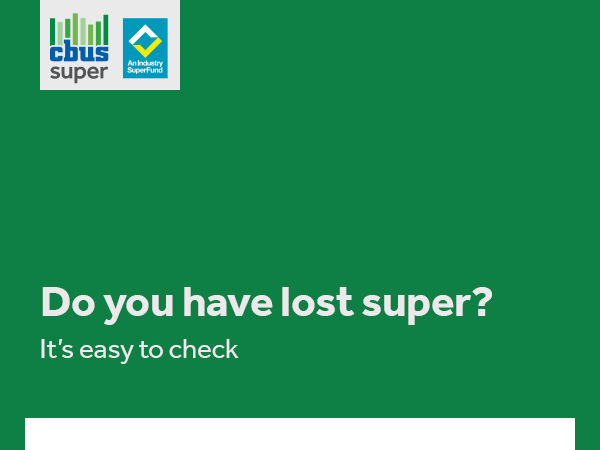
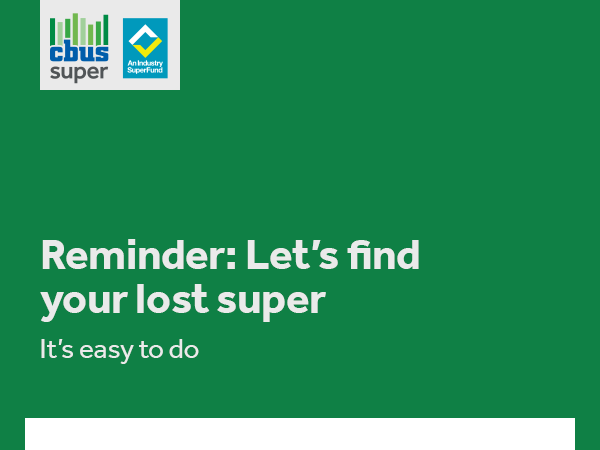
update to match Media Super

Changed region(s): [[0.06, 0.5289, 0.84, 0.7156], [0.3, 0.7467, 0.39, 0.8089]]

diff --git a/emails/2022/tec/supermatch-reminder/index.html b/emails/2022/tec/supermatch-reminder/index.html
@@ -99,23 +99,18 @@ a {text-decoration: none;}
               </p>
           </div>
 
-          <!-- Heading (size-30) -->
-          <div style="Margin-left: 40px;Margin-right: 40px;Margin-bottom: 14px;">
-            <div style="mso-line-height-rule: exactly;mso-text-raise: 11px;vertical-align: middle;">
-              <p class="size-30" style="Margin-top: 0;Margin-bottom: 10px;font-family:'Hind',Tahoma,Arial,sans-serif;font-style: normal;font-weight: normal;font-size: 30px;line-height: 38px;">
-                <strong>Don’t pay double the fees</strong>
-              </p>
-            </div>
-          </div>  
+ 
         <!-- Text -->
         <div style="Margin-left: 40px;Margin-right: 40px;Margin-bottom: 24px;">
           <div style="mso-line-height-rule: exactly;mso-text-raise: 11px;vertical-align: middle;">
-          <p class="size-22" style="Margin-top: 0;Margin-bottom: 0;">
-
-            Hi {{profile.person.name.firstName}}, if you’ve got lost super out there, you may be paying fees on each of those super accounts. Paying fees on multiple accounts will be eating into your super savings, impacting your retirement outcome.          </p>
+          <p class="size-22" style="Margin-top: 0;Margin-bottom: 12px;">
+            Hi {{profile.person.name.firstName}}, you’ve recently asked us to find your lost super for you. Before we can find it for you, we need some additional information to verify your identity. Don’t worry, this is just to make sure your account is as secure as possible.
+          </p>
+          <p class="size-22" style="Margin-top: 0;Margin-bottom: 8px;font-weight: bold;">
+            Simply log in to the member portal and make sure you’ve completed all the steps in the Checklist so we have all the info we need.
+          </p>
           </div>
         </div>
-
 
           <!-- inner spacer -->
           <div style="Margin-left: 10px;Margin-right: 10px;Margin-bottom: 20px;">
@@ -162,7 +157,7 @@ a {text-decoration: none;}
           <td style="color: #454545;font-family: Hind,Calibri,Arial,sans-serif;font-size: 18px;line-height: 24px;padding-left: 8px;">
             <p class="size-22" style="Margin-top: 0px;Margin-bottom: 0;">
               Log in to the 
-              <a class="hover" target="_blank" style="color: #454545; font-weight: bold;" href="https://www.cbussuper.com.au/portals/super-account/consolidate-my-super.super">member login</a>.
+              <a class="hover" target="_blank" style="color: #454545; font-weight: bold;" href="https://www.cbussuper.com.au/portals/super-account/consolidate-my-super.super?utm_source=ajo&utm_medium=edm&utm_campaign=onboard&utm_content=mplink-edm1-tfn-yes">member login</a>.
             </p>
           </td>
           <td>
@@ -242,7 +237,7 @@ a {text-decoration: none;}
                   <table cellpadding="0" cellspacing="0" align="left">
                       <tbody><tr>
                           <td style="width: 206px;height: 55px;background: #0F8045;border-radius: 4px;font-family: Hind,Calibri,Arial,sans-serif; font-size: 22px;text-align:center;">
-                            <a target="_blank" href="https://www.cbussuper.com.au/portals/super-account/consolidate-my-super.super" style="text-decoration: none; color: #fff; display: inline-block; border-top: 10px solid #0F8045; border-bottom: 10px solid #0F8045; border-right: 5px solid #0F8045;border-left: 5px solid #0F8045;">
+                            <a target="_blank" href="https://www.cbussuper.com.au/portals/super-account/consolidate-my-super.superr?utm_source=ajo&utm_medium=edm&utm_campaign=onboard&utm_content=getstarted-edm1-tfn-yes" style="text-decoration: none; color: #fff; display: inline-block; border-top: 10px solid #0F8045; border-bottom: 10px solid #0F8045; border-right: 5px solid #0F8045;border-left: 5px solid #0F8045;">
                               <strong style="font-family: Hind,Calibri,Arial,sans-serif;">Get started</strong>
                             </a>
                           </td>
@@ -445,33 +440,33 @@ a {text-decoration: none;}
       </div>
 
      <!-- Text -->
-     <div style="Margin-left: 5px;Margin-right: 5px;Margin-top: 5px;Margin-bottom: 32px;">
-      <div style="mso-line-height-rule: exactly;mso-text-raise: 11px;vertical-align: middle;">
-        <p style="Margin-top: 0;Margin-bottom: 0;font-size: 11px;line-height: 19px;">
-          The rating is issued by SuperRatings Pty Ltd ABN 95 100 192 283 AFSL 311880 (SuperRatings). Ratings are general advice only and have been prepared without taking account of your objectives, financial situation or needs. Consider your personal circumstances, read the product disclosure statement and seek independent financial advice before investing. The rating is not a recommendation to purchase, sell or hold any product. Past performance information is not indicative of future performance. Ratings are subject to change without notice and SuperRatings assumes no obligation to update. SuperRatings uses objective criteria and receives a fee for publishing awards. Visit superratings.com.au for ratings information and to access the full report. © 2022 SuperRatings. All rights reserved.
-        </p>
-        <p style="Margin-top: 15px;Margin-bottom: 0;font-size: 11px;line-height: 19px;">
-          ©Zenith CW Pty Ltd ABN 20639121403 (Chant West), AR of Zenith Investment Partners Pty Ltd ABN 27103132672, AFSL 226872/ AFS Rep No. 1280401. Criteria used by Chant West to judge its awards is subjective and has been determined based on data supplied by third parties. While such information is believed to be accurate, we do not accept responsibility for inaccuracies in such data. We do not make any representation or give any guarantee or assurance as to the performance or success of any financial product based on the subjective ratings provided. Past performance is not a reliable indicator of future performance. The Chant West awards do not constitute financial product advice, however, to extent the awards are considered to be advice, it is General Advice only and does not take into account your objectives, financial situation or needs, including target markets of financial products, where applicable. You should consider the suitability of any advice against your personal circumstances. Awards may not be reproduced, modified or distributed. Except for any liability which cannot be excluded, we do not accept any liability whether direct or indirect, arising from use of the awards. Awards displayed for previous years are for historical purposes only. Full details regarding the awards and our FSG are available at <a class="hover" target="_blank" style="color: #454545; font-weight: bold;" href="https://www.chantwest.com.au">www.chantwest.com.au</a>.
-        </p>
-        <p style="Margin-top: 15px;Margin-bottom: 0;font-size: 11px;line-height: 19px;">
-          The Canstar 2021 Outstanding Value Account Based Pension Award was received in September 2021 for the Cbus Super Income Stream product.
-        </p>
-        <p style="Margin-top: 15px;Margin-bottom: 0;font-size: 11px;line-height: 19px;">
-          Cbus Trustee: United Super Pty Ltd ABN 46 006 261 623 AFSL 233792 Cbus ABN 75 493 363 262.
-        </p>
-        <p style="Margin-top: 5px;Margin-bottom: 0;font-size: 11px;line-height: 19px;">
-          Insurance is issued under a group policy with our insurer, TAL Life Limited ABN 70 050 109 450, AFSL 237848 
-        </p>
-        <p style="Margin-top: 5px;Margin-bottom: 0;font-size: 11px;line-height: 19px;">
-          This email (including any attachments) contains information which is confidential and may be subject to legal privilege. If you are not the intended recipient you must not use, distribute or copy this email. If you have received this email in error, please notify the sender immediately and delete this email. Any views expressed in this email are not necessarily the views of Cbus.
-        </p>
-        <p style="Margin-top: 5px;Margin-bottom: 0;font-size: 11px;line-height: 19px;">
-          This information is about Cbus. It doesn’t take into account your specific needs, so you should look at your own financial position, objectives and requirements before making any financial decisions. Read the relevant <a class="hover" href="https://www.cbussuper.com.au/tools-resources/forms-and-publications" style="color: #666666; font-weight: bold;" target="_blank">Cbus Product Disclosure Statement</a> and <a class="hover" href="https://www.cbussuper.com.au/target-market-determinations" style="color: #666666; font-weight: bold;" target="_blank">Target Market Determination</a> to decide whether Cbus is right for you. Contact <span style="color: #666666; font-weight: bold">1300 361 784</span> or visit <a class="hover" href="https://www.cbussuper.com.au" style="color: #666666;font-size: 11px;font-weight: bold;line-height: 19px;" target="_blank">cbussuper.com.au</a> for a copy.
-        </p>
+      <div style="Margin-left: 5px;Margin-right: 5px;Margin-top: 5px;Margin-bottom: 32px;">
+        <div style="mso-line-height-rule: exactly;mso-text-raise: 11px;vertical-align: middle;">
+          <p style="Margin-top: 0;Margin-bottom: 0;font-size: 11px;line-height: 19px;">
+            The rating is issued by SuperRatings Pty Ltd ABN 95 100 192 283 AFSL 311880 (SuperRatings). Ratings are general advice only and have been prepared without taking account of your objectives, financial situation or needs. Consider your personal circumstances, read the product disclosure statement and seek independent financial advice before investing. The rating is not a recommendation to purchase, sell or hold any product. Past performance information is not indicative of future performance. Ratings are subject to change without notice and SuperRatings assumes no obligation to update. SuperRatings uses objective criteria and receives a fee for publishing awards. Visit superratings.com.au for ratings information and to access the full report. © 2022 SuperRatings. All rights reserved.
+          </p>
+          <p style="Margin-top: 15px;Margin-bottom: 0;font-size: 11px;line-height: 19px;">
+            ©Zenith CW Pty Ltd ABN 20639121403 (Chant West), AR of Zenith Investment Partners Pty Ltd ABN 27103132672, AFSL 226872/ AFS Rep No. 1280401. Criteria used by Chant West to judge its awards is subjective and has been determined based on data supplied by third parties. While such information is believed to be accurate, we do not accept responsibility for inaccuracies in such data. We do not make any representation or give any guarantee or assurance as to the performance or success of any financial product based on the subjective ratings provided. Past performance is not a reliable indicator of future performance. The Chant West awards do not constitute financial product advice, however, to extent the awards are considered to be advice, it is General Advice only and does not take into account your objectives, financial situation or needs, including target markets of financial products, where applicable. You should consider the suitability of any advice against your personal circumstances. Awards may not be reproduced, modified or distributed. Except for any liability which cannot be excluded, we do not accept any liability whether direct or indirect, arising from use of the awards. Awards displayed for previous years are for historical purposes only. Full details regarding the awards and our FSG are available at <a class="hover" target="_blank" style="color: #454545; font-weight: bold;" href="https://www.chantwest.com.au">www.chantwest.com.au</a>.
+          </p>
+          <p style="Margin-top: 15px;Margin-bottom: 0;font-size: 11px;line-height: 19px;">
+            The Canstar 2021 Outstanding Value Account Based Pension Award was received in September 2021 for the Cbus Super Income Stream product.
+          </p>
+          <p style="Margin-top: 15px;Margin-bottom: 0;font-size: 11px;line-height: 19px;">
+            Cbus Trustee: United Super Pty Ltd ABN 46 006 261 623 AFSL 233792 Cbus ABN 75 493 363 262.
+          </p>
+          <p style="Margin-top: 5px;Margin-bottom: 0;font-size: 11px;line-height: 19px;">
+            Insurance is issued under a group policy with our insurer, TAL Life Limited ABN 70 050 109 450, AFSL 237848 
+          </p>
+          <p style="Margin-top: 5px;Margin-bottom: 0;font-size: 11px;line-height: 19px;">
+            This email (including any attachments) contains information which is confidential and may be subject to legal privilege. If you are not the intended recipient you must not use, distribute or copy this email. If you have received this email in error, please notify the sender immediately and delete this email. Any views expressed in this email are not necessarily the views of Cbus.
+          </p>
+          <p style="Margin-top: 5px;Margin-bottom: 0;font-size: 11px;line-height: 19px;">
+            This information is about Cbus. It doesn’t take into account your specific needs, so you should look at your own financial position, objectives and requirements before making any financial decisions. Read the relevant <a class="hover" href="https://www.cbussuper.com.au/tools-resources/forms-and-publications" style="color: #666666; font-weight: bold;" target="_blank">Cbus Product Disclosure Statement</a> and <a class="hover" href="https://www.cbussuper.com.au/target-market-determinations" style="color: #666666; font-weight: bold;" target="_blank">Target Market Determination</a> to decide whether Cbus is right for you. Contact <span style="color: #666666; font-weight: bold">1300 361 784</span> or visit <a class="hover" href="https://www.cbussuper.com.au" style="color: #666666;font-size: 11px;font-weight: bold;line-height: 19px;" target="_blank">cbussuper.com.au</a> for a copy.
+          </p>
+
+        </div>
 
       </div>
-
-    </div>
       
       </div>
     <!--[if (mso)|(IE)]></td><td class="layout__edges">&nbsp;</td></tr></table><![endif]-->

diff --git a/emails/2022/tec/supermatch/index.html b/emails/2022/tec/supermatch/index.html
@@ -99,47 +99,18 @@ a {text-decoration: none;}
               </p>
           </div>
 
-          <!-- Heading (size-30) -->
-          <div style="Margin-left: 40px;Margin-right: 40px;Margin-bottom: 14px;">
-            <div style="mso-line-height-rule: exactly;mso-text-raise: 11px;vertical-align: middle;">
-              <p class="size-30" style="Margin-top: 0;Margin-bottom: 10px;font-family:'Hind',Tahoma,Arial,sans-serif;font-style: normal;font-weight: normal;font-size: 30px;line-height: 38px;">
-                <strong>There’s over $13.8 billion* in lost and unclaimed super in Australia</strong>
-              </p>
-            </div>
-          </div>  
+ 
         <!-- Text -->
         <div style="Margin-left: 40px;Margin-right: 40px;Margin-bottom: 24px;">
           <div style="mso-line-height-rule: exactly;mso-text-raise: 11px;vertical-align: middle;">
-          <p class="size-22" style="Margin-top: 0;Margin-bottom: 0;">
-            Hi {{profile.person.name.firstName}}, wherever you are in Australia, it’s worth checking if any of that super is yours. After all, it’s your money.
+          <p class="size-22" style="Margin-top: 0;Margin-bottom: 12px;">
+            Hi {{profile.person.name.firstName}}, you’ve recently asked us to find your lost super for you. Before we can find it for you, we need some additional information to verify your identity. Don’t worry, this is just to make sure your account is as secure as possible.
+          </p>
+          <p class="size-22" style="Margin-top: 0;Margin-bottom: 8px;font-weight: bold;">
+            Simply log in to the member portal and make sure you’ve completed all the steps in the Checklist so we have all the info we need.
           </p>
           </div>
         </div>
-
-        
-         <!-- inner spacer -->
-         <div style="Margin-left: 10px;Margin-right: 10px;Margin-bottom: 12px;">
-          <div style="mso-line-height-rule: exactly;line-height: 12px;font-size: 1px;">&nbsp;</div>
-        </div>
-
-        <!-- Heading (size-30) -->
-        <div style="Margin-left: 40px;Margin-right: 40px;Margin-bottom: 14px;">
-          <div style="mso-line-height-rule: exactly;mso-text-raise: 11px;vertical-align: middle;">
-            <p class="size-30" style="Margin-top: 0;Margin-bottom: 10px;font-family:'Hind',Tahoma,Arial,sans-serif;font-style: normal;font-weight: normal;font-size: 30px;line-height: 38px;">
-              <strong>What is lost super?</strong>
-            </p>
-          </div>
-        </div>  
-
-      <!-- Text -->
-      <div style="Margin-left: 40px;Margin-right: 40px;Margin-bottom: 24px;">
-        <div style="mso-line-height-rule: exactly;mso-text-raise: 11px;vertical-align: middle;">
-        <p class="size-22" style="Margin-top: 0;Margin-bottom: 0;">
-          Super often becomes 'lost' when someone changes their name, address, joins a new fund or simply switches jobs. Lost super can be hard to avoid if you've worked in different jobs or moved around a lot.
-        </p>
-        </div>
-      </div>
-
 
           <!-- inner spacer -->
           <div style="Margin-left: 10px;Margin-right: 10px;Margin-bottom: 20px;">
@@ -186,7 +157,7 @@ a {text-decoration: none;}
           <td style="color: #454545;font-family: Hind,Calibri,Arial,sans-serif;font-size: 18px;line-height: 24px;padding-left: 8px;">
             <p class="size-22" style="Margin-top: 0px;Margin-bottom: 0;">
               Log in to the 
-              <a class="hover" target="_blank" style="color: #454545; font-weight: bold;" href="https://www.cbussuper.com.au/portals/super-account/consolidate-my-super.super">member login</a>.
+              <a class="hover" target="_blank" style="color: #454545; font-weight: bold;" href="https://www.cbussuper.com.au/portals/super-account/consolidate-my-super.super?utm_source=ajo&utm_medium=edm&utm_campaign=onboard&utm_content=mplink-edm1-tfn-yes">member login</a>.
             </p>
           </td>
           <td>
@@ -266,7 +237,7 @@ a {text-decoration: none;}
                   <table cellpadding="0" cellspacing="0" align="left">
                       <tbody><tr>
                           <td style="width: 206px;height: 55px;background: #0F8045;border-radius: 4px;font-family: Hind,Calibri,Arial,sans-serif; font-size: 22px;text-align:center;">
-                            <a target="_blank" href="https://www.cbussuper.com.au/portals/super-account/consolidate-my-super.super" style="text-decoration: none; color: #fff; display: inline-block; border-top: 10px solid #0F8045; border-bottom: 10px solid #0F8045; border-right: 5px solid #0F8045;border-left: 5px solid #0F8045;">
+                            <a target="_blank" href="https://www.cbussuper.com.au/portals/super-account/consolidate-my-super.superr?utm_source=ajo&utm_medium=edm&utm_campaign=onboard&utm_content=getstarted-edm1-tfn-yes" style="text-decoration: none; color: #fff; display: inline-block; border-top: 10px solid #0F8045; border-bottom: 10px solid #0F8045; border-right: 5px solid #0F8045;border-left: 5px solid #0F8045;">
                               <strong style="font-family: Hind,Calibri,Arial,sans-serif;">Get started</strong>
                             </a>
                           </td>
@@ -482,10 +453,6 @@ a {text-decoration: none;}
           </p>
           <p style="Margin-top: 15px;Margin-bottom: 0;font-size: 11px;line-height: 19px;">
             Cbus Trustee: United Super Pty Ltd ABN 46 006 261 623 AFSL 233792 Cbus ABN 75 493 363 262.
-          </p>
-          <!-- added disclaimer  -->
-          <p style="Margin-top: 15px;Margin-bottom: 0;font-size: 11px;line-height: 19px;">
-            *Source: $13.8 billion was held as lost or unclaimed superannuation in accounts across Australia as at 30 June 2020, reported on the ATO website on 26 July 2022.
           </p>
           <p style="Margin-top: 5px;Margin-bottom: 0;font-size: 11px;line-height: 19px;">
             Insurance is issued under a group policy with our insurer, TAL Life Limited ABN 70 050 109 450, AFSL 237848 
